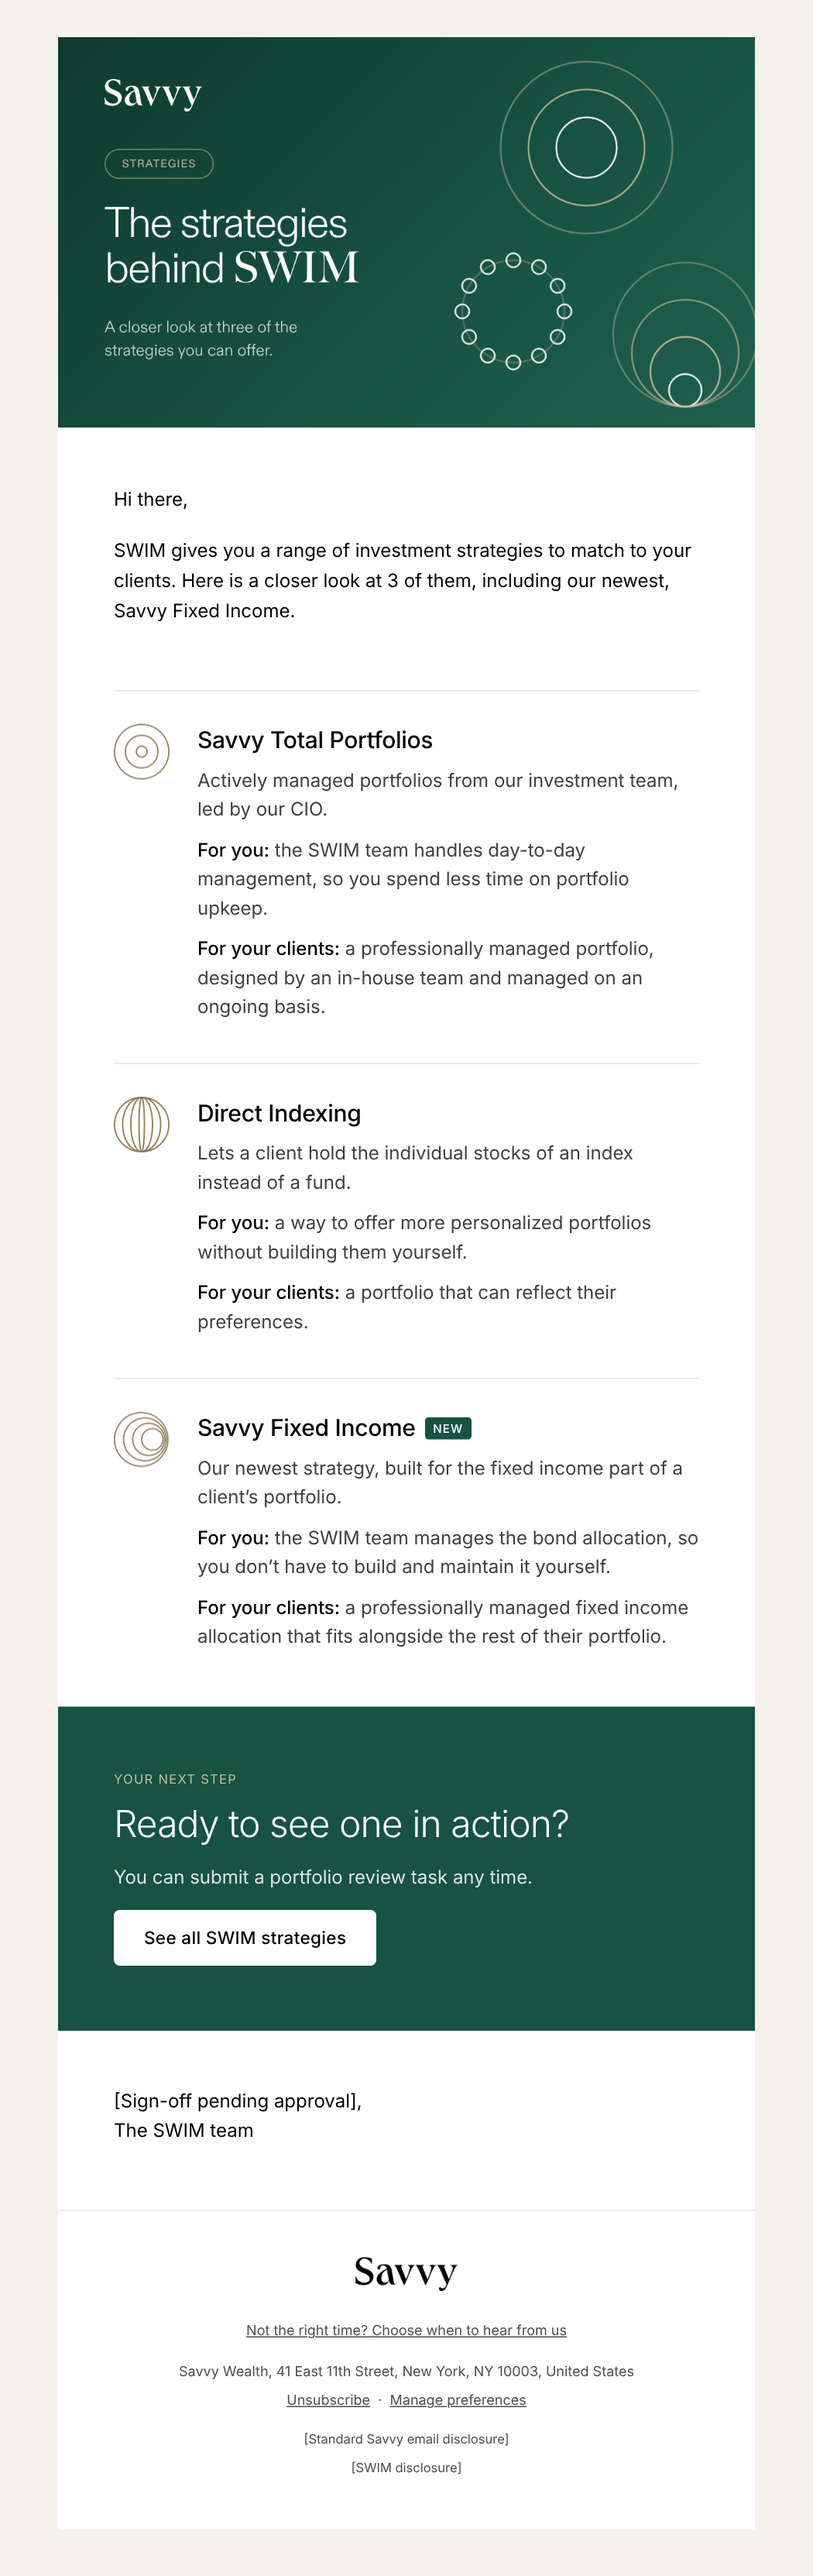
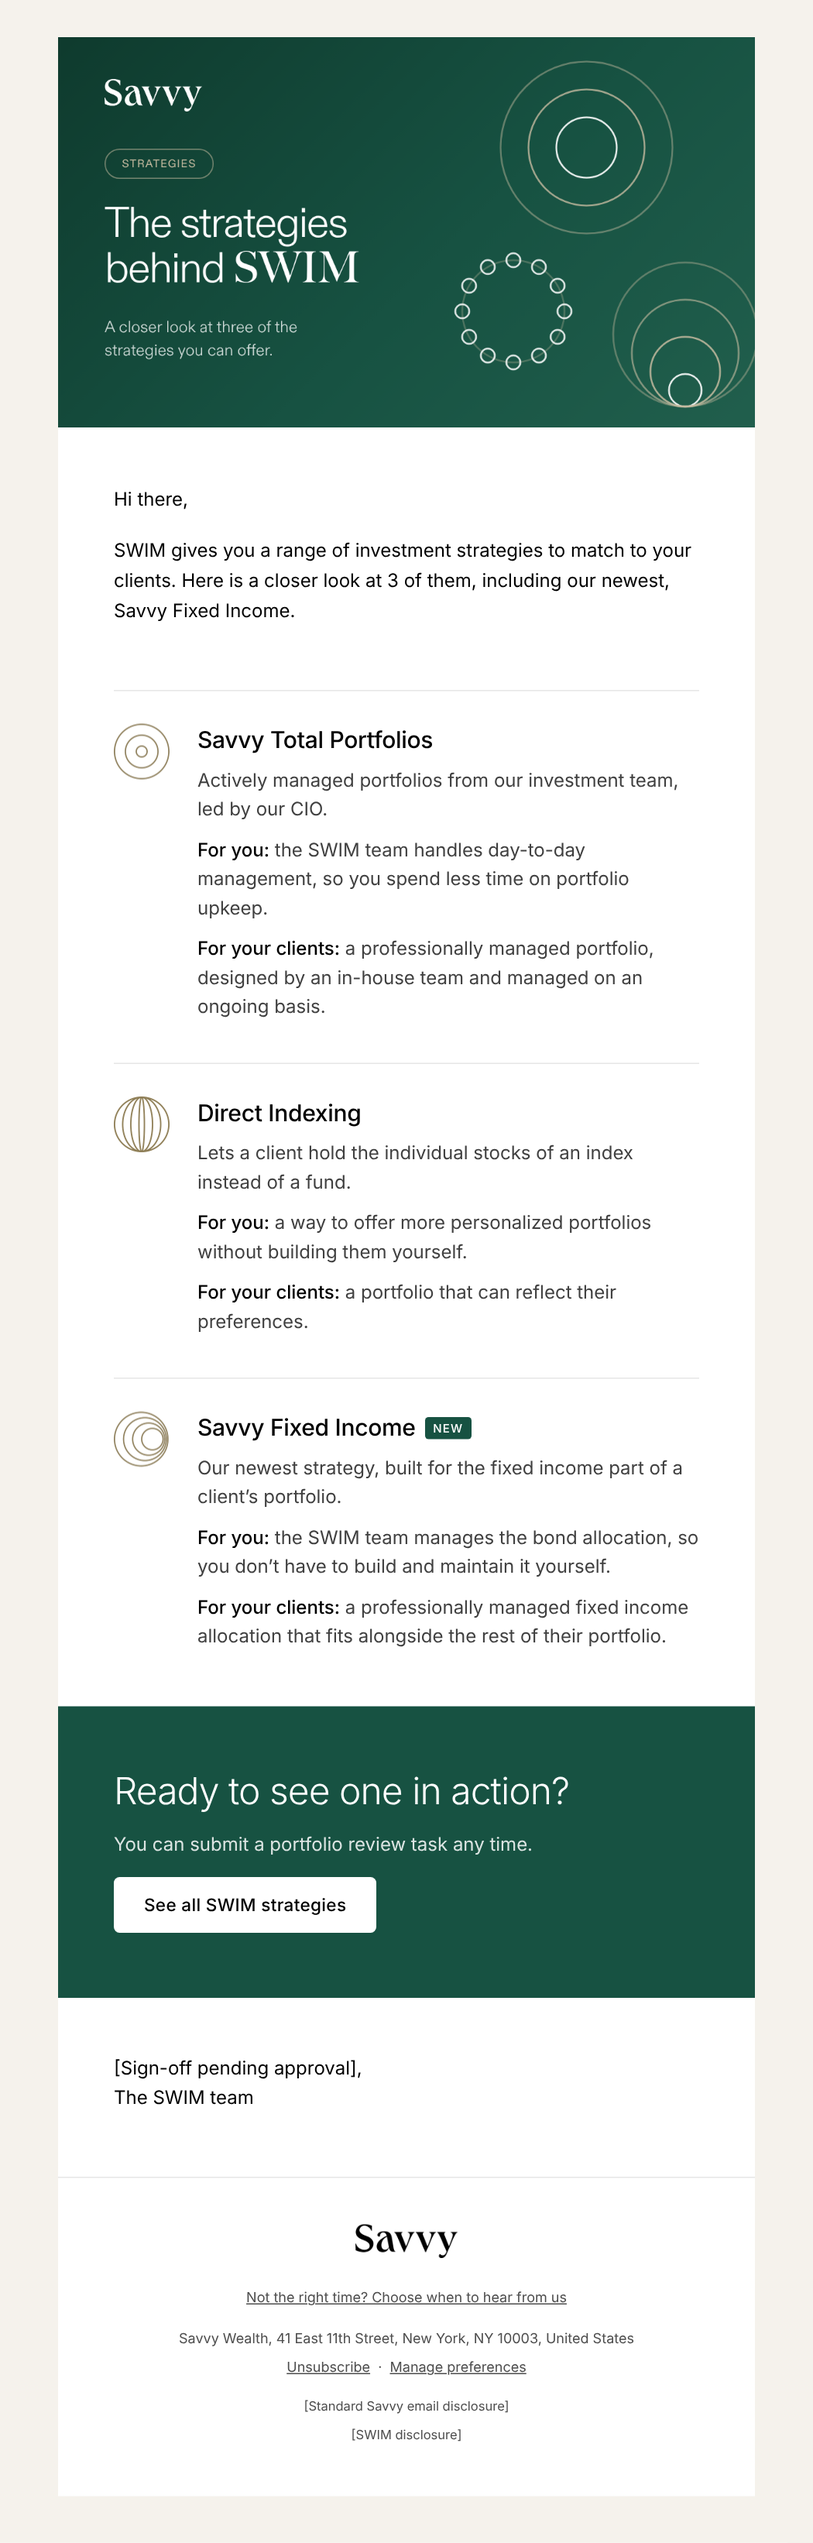
Email 4: remove eyebrow in CTA band
Claude-Session: https://claude.ai/code/session_01C4U8FBFynJxChWkXC4yVRQ

diff --git a/emails/nurture-4.html b/emails/nurture-4.html
@@ -92,8 +92,8 @@
     <tr><td style="padding:40px 0 0;">
       <table role="presentation" width="100%" cellpadding="0" cellspacing="0" border="0" bgcolor="#175242" style="background:#175242;">
         <tr><td class="px" style="padding:56px 48px;">
-          <div style="margin-top:0px;font-family:'Inter',Arial,Helvetica,sans-serif;font-size:11px;line-height:12px;letter-spacing:0.08em;text-transform:uppercase;color:#C7BCA1;">Your next step</div>
-          <h2 style="margin:16px 0 0;font-family:'Inter',Arial,Helvetica,sans-serif;font-weight:300;font-size:32px;line-height:34px;letter-spacing:-0.02em;color:#FFFFFF;">Ready to see one in action?</h2>
+          
+          <h2 style="margin:0px 0 0;font-family:'Inter',Arial,Helvetica,sans-serif;font-weight:300;font-size:32px;line-height:34px;letter-spacing:-0.02em;color:#FFFFFF;">Ready to see one in action?</h2>
           <p style="margin:16px 0 0;font-family:'Inter',Arial,Helvetica,sans-serif;font-size:16px;line-height:25px;color:rgba(255,255,255,0.85);">You can submit a portfolio review task any time.</p>
           <div style="margin-top:16px;"><table role="presentation" cellpadding="0" cellspacing="0" border="0" style="margin-top:12px;border-collapse:separate;"><tr>
               <td bgcolor="#FFFFFF" style="background:#FFFFFF;border-radius:5px;"><a href="#" style="display:inline-block;padding:14px 26px;font-family:'Inter',Arial,Helvetica,sans-serif;font-size:15px;font-weight:500;line-height:20px;letter-spacing:0.015em;color:#000000;border-radius:5px;">See all SWIM strategies</a></td>

diff --git a/emails/build_emails.py b/emails/build_emails.py
@@ -423,7 +423,7 @@ e4 += items([
     dict(icon="globe", title="Direct Indexing", body=p("Lets a client hold the individual stocks of an index instead of a fund.") + fy("For you:", "a way to offer more personalized portfolios without building them yourself.") + fy("For your clients:", "a portfolio that can reflect their preferences.")),
     dict(icon="layers", title="Savvy Fixed Income" + new_tag, body=p("Our newest strategy, built for the fixed income part of a client&rsquo;s portfolio.") + fy("For you:", "the SWIM team manages the bond allocation, so you don&rsquo;t have to build and maintain it yourself.") + fy("For your clients:", "a professionally managed fixed income allocation that fits alongside the rest of their portfolio.")),
 ])
-e4 += band("Your next step", "Ready to see one in action?", "You can submit a portfolio review task any time.", [("See all SWIM strategies", "primary")])
+e4 += band(None, "Ready to see one in action?", "You can submit a portfolio review task any time.", [("See all SWIM strategies", "primary")])
 e4 += section(f'<div style="font-family:{SANS};font-size:16px;line-height:25px;color:#000000;">[Sign-off pending approval],<br>The SWIM team</div>', pad="48px 48px 56px")
 build(4, "The strategies behind SWIM", "A closer look at 3 SWIM strategies, including our newest, Savvy Fixed Income.", e4, CHOOSE,
       [DISCLOSURE])
